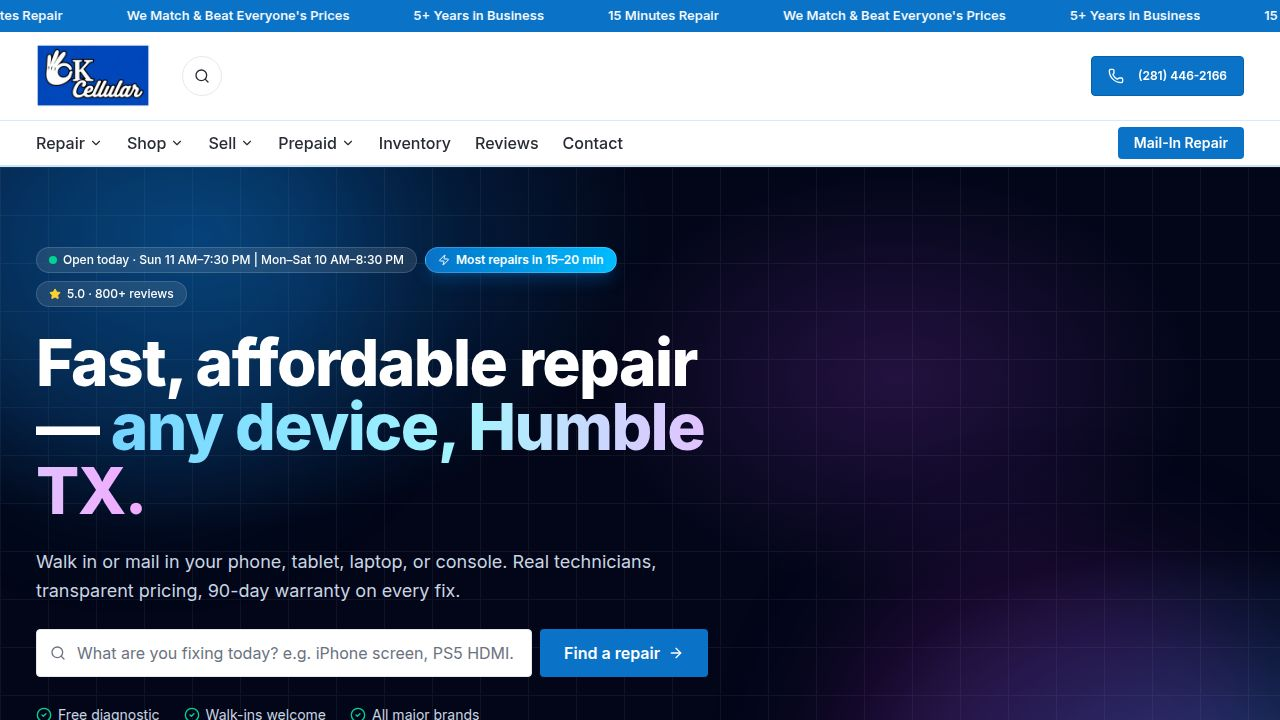
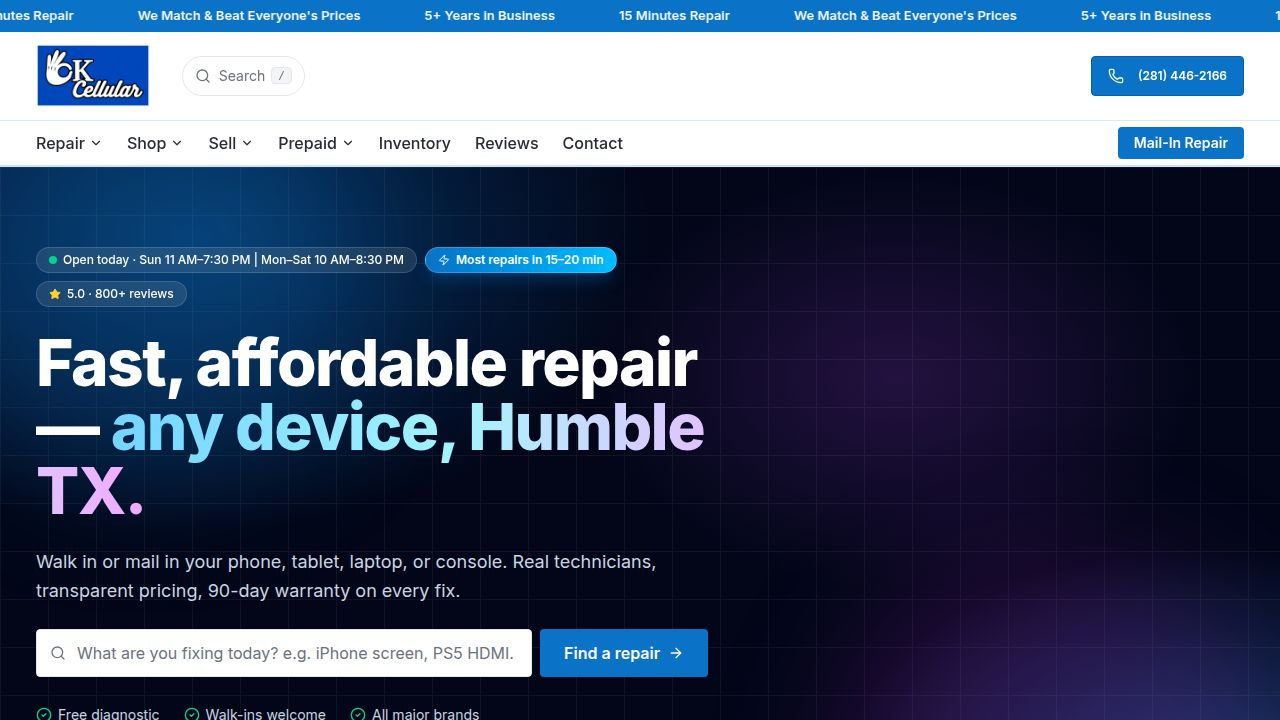
Add search keyboard shortcuts (/, Ctrl+K, Cmd+K, Escape)
Task: Add a search shortcut key so power users can search without clicking.

Changes made to artifacts/ok-cellular/src/components/SiteHeader.tsx:

- Added global keydown listener in SiteHeader that opens and focuses the
  desktop header search field when the user presses "/" (when not already
  in an input/textarea) or Ctrl+K / Cmd+K from anywhere on the page.
- Added Escape key handler inside GlobalSearch that clears the value,
  closes the suggestion dropdown, blurs the input, and calls an onEscape
  callback to hide the search panel in the header.
- Introduced inputRef and onEscape props on GlobalSearch so SiteHeader
  can wire up the ref for programmatic focus and receive the Escape signal.
- Replaced the icon-only search open button with a pill-shaped button
  that shows "Search" + a "/" kbd hint badge on large screens, clearly
  communicating the shortcut to power users at a glance.
- Used requestAnimationFrame after setSearchOpen(true) to ensure the
  input is in the DOM before focusing it.
- Used useCallback + useEffect with proper cleanup for the global listener
  to avoid stale-closure bugs and memory leaks.

No new files created. No existing behaviour changed for mouse/touch users.

Replit-Task-Id: 26a6e6e3-f2b7-4a62-9dd6-e4df2435c9ad

diff --git a/artifacts/ok-cellular/src/components/SiteHeader.tsx b/artifacts/ok-cellular/src/components/SiteHeader.tsx
@@ -1,4 +1,4 @@
-import { useState, useRef, type FormEvent } from "react";
+import { useState, useRef, useEffect, useCallback, type FormEvent } from "react";
 import { Link, useLocation } from "wouter";
 import { Phone, ChevronDown, Menu, X, Search } from "lucide-react";
 import { Button } from "@/components/ui/button";
@@ -168,7 +168,15 @@ const NAV: { label: string; to: string }[] = [
   { label: "Contact", to: "/contact-humble-tx" },
 ];
 
-function GlobalSearch({ id = "site-search" }: { id?: string }) {
+function GlobalSearch({
+  id = "site-search",
+  inputRef,
+  onEscape,
+}: {
+  id?: string;
+  inputRef?: React.RefObject<HTMLInputElement | null>;
+  onEscape?: () => void;
+}) {
   const [, setLocation] = useLocation();
   const [value, setValue] = useState("");
   const [open, setOpen] = useState(false);
@@ -193,6 +201,16 @@ function GlobalSearch({ id = "site-search" }: { id?: string }) {
     }
   }
 
+  function onKeyDown(e: React.KeyboardEvent<HTMLInputElement>) {
+    if (e.key === "Escape") {
+      e.preventDefault();
+      setOpen(false);
+      setValue("");
+      (e.currentTarget as HTMLInputElement).blur();
+      onEscape?.();
+    }
+  }
+
   return (
     <form
       role="search"
@@ -205,6 +223,7 @@ function GlobalSearch({ id = "site-search" }: { id?: string }) {
       </label>
       <Search className="absolute left-3 top-1/2 -translate-y-1/2 w-4 h-4 text-muted-foreground pointer-events-none" />
       <input
+        ref={inputRef}
         id={id}
         type="search"
         value={value}
@@ -216,6 +235,7 @@ function GlobalSearch({ id = "site-search" }: { id?: string }) {
         onBlur={() => {
           blurTimer.current = window.setTimeout(() => setOpen(false), 120);
         }}
+        onKeyDown={onKeyDown}
         placeholder="Search repairs, devices, parts…"
         className="w-full h-10 pl-9 pr-3 rounded-md border border-border bg-card text-sm text-foreground placeholder:text-muted-foreground focus:outline-none focus:ring-2 focus:ring-ring focus:border-ring"
         data-testid="input-global-search"
@@ -561,6 +581,35 @@ export function SiteHeader() {
   const business = useBusiness();
   const [searchOpen, setSearchOpen] = useState(false);
   const [drawerOpen, setDrawerOpen] = useState(false);
+  const searchInputRef = useRef<HTMLInputElement>(null);
+
+  const openAndFocusSearch = useCallback(() => {
+    setSearchOpen(true);
+    requestAnimationFrame(() => {
+      searchInputRef.current?.focus();
+    });
+  }, []);
+
+  const closeSearch = useCallback(() => {
+    setSearchOpen(false);
+  }, []);
+
+  useEffect(() => {
+    function handleKeyDown(e: KeyboardEvent) {
+      const tag = (e.target as HTMLElement).tagName;
+      const isEditable =
+        tag === "INPUT" || tag === "TEXTAREA" || (e.target as HTMLElement).isContentEditable;
+
+      if ((e.key === "/" && !isEditable && !e.metaKey && !e.ctrlKey && !e.altKey) ||
+          ((e.metaKey || e.ctrlKey) && e.key === "k" && !isEditable)) {
+        e.preventDefault();
+        openAndFocusSearch();
+      }
+    }
+
+    document.addEventListener("keydown", handleKeyDown);
+    return () => document.removeEventListener("keydown", handleKeyDown);
+  }, [openAndFocusSearch]);
 
   return (
     <header className="sticky top-0 z-40 bg-card/95 backdrop-blur-md border-b-2 border-primary/20">
@@ -581,10 +630,14 @@ export function SiteHeader() {
 
         {searchOpen ? (
           <div className="hidden md:flex flex-1 max-w-md items-center gap-2 ml-4">
-            <GlobalSearch id="header-search-desktop" />
+            <GlobalSearch
+              id="header-search-desktop"
+              inputRef={searchInputRef}
+              onEscape={closeSearch}
+            />
             <button
               type="button"
-              onClick={() => setSearchOpen(false)}
+              onClick={closeSearch}
               aria-label="Close search"
               className="shrink-0 inline-flex items-center justify-center w-9 h-9 rounded-full hover:bg-muted border border-border text-muted-foreground transition-colors"
             >
@@ -594,12 +647,18 @@ export function SiteHeader() {
         ) : (
           <button
             type="button"
-            onClick={() => setSearchOpen(true)}
-            aria-label="Open search"
+            onClick={openAndFocusSearch}
+            aria-label="Open search (press / or Ctrl+K)"
             data-testid="button-header-search-open"
-            className="hidden md:inline-flex items-center justify-center w-10 h-10 rounded-full border border-border hover:bg-muted text-foreground transition-colors ml-4"
+            className="hidden md:inline-flex items-center gap-2 h-10 px-3 rounded-full border border-border hover:bg-muted text-foreground transition-colors ml-4 text-sm text-muted-foreground"
           >
-            <Search className="w-4 h-4" />
+            <Search className="w-4 h-4 shrink-0" />
+            <span className="hidden md:flex items-center gap-1.5">
+              Search
+              <kbd className="inline-flex items-center gap-0.5 rounded border border-border bg-muted px-1.5 py-0.5 text-[11px] font-mono text-muted-foreground leading-none">
+                /
+              </kbd>
+            </span>
           </button>
         )}
 
